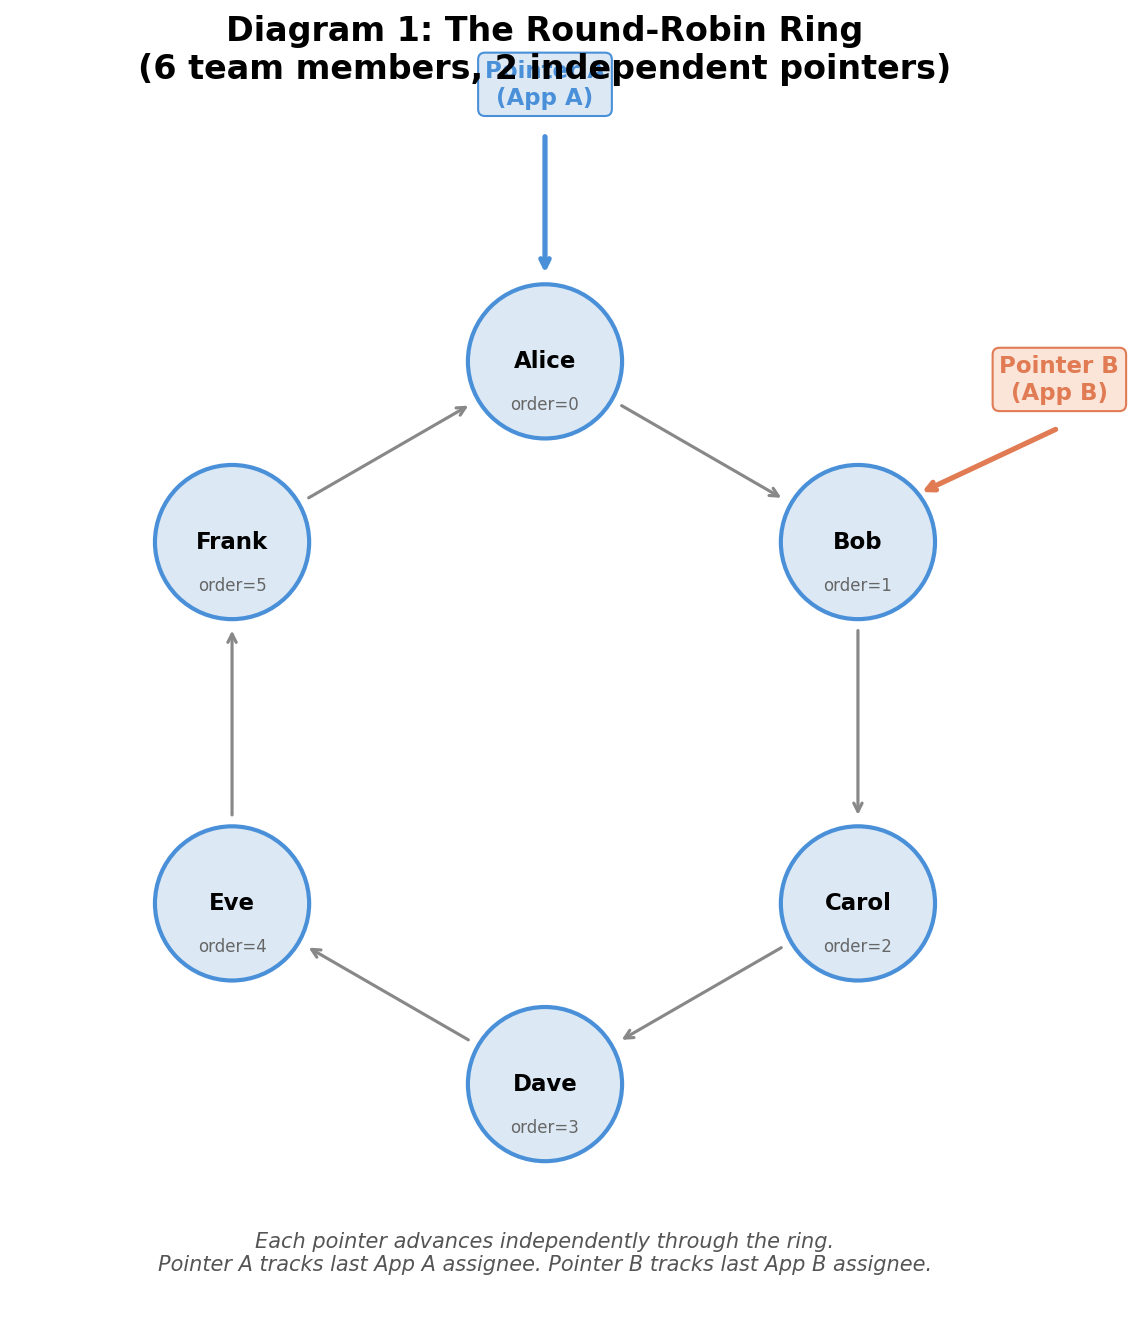
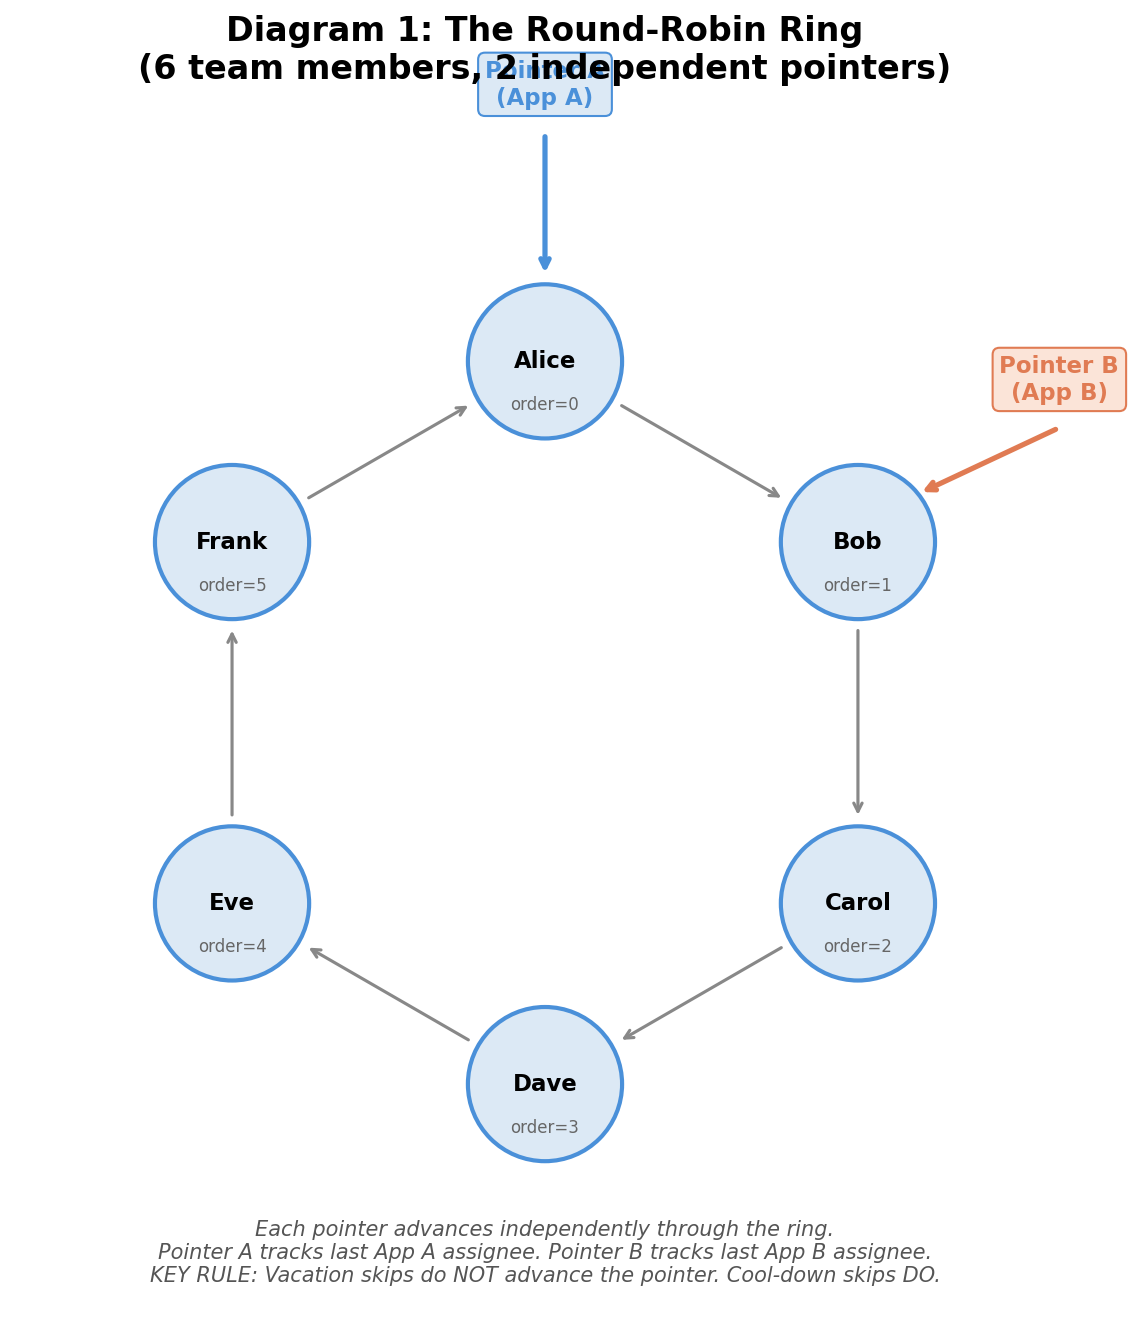
Update diagrams for Option C: pointer holds on vacation
Vacation skips no longer advance the pointer. When a member is on
vacation, their turn is deferred (not lost) — the pointer stays at
their position and they are assigned as soon as they return. Cool-down
skips still advance the pointer as before.

Updated diagrams:
- 01_ring: added key rule about vacation vs cool-down pointer behavior
- 03_flowchart: vacation skip = ptr holds, cool-down skip = ptr advances
- 05_exception: fully reworked as 4-week scenario showing Carol on
  vacation Wks 3-4 with pointer held, then assigned on return in Wk 5

https://claude.ai/code/session_016ZkhzVdVokVnB9MoGG6pc1

Changed region(s): [[0.1235, 0.9179, 0.8333, 0.9791]]

diff --git a/docs/render_diagrams.py b/docs/render_diagrams.py
@@ -89,7 +89,8 @@ def diagram_1_ring():
 
     # Legend
     ax.text(0, -2.2, 'Each pointer advances independently through the ring.\n'
-            'Pointer A tracks last App A assignee. Pointer B tracks last App B assignee.',
+            'Pointer A tracks last App A assignee. Pointer B tracks last App B assignee.\n'
+            'KEY RULE: Vacation skips do NOT advance the pointer. Cool-down skips DO.',
             ha='center', va='center', fontsize=10, style='italic', color='#555')
 
     fig.tight_layout()
@@ -231,10 +232,10 @@ def diagram_3_algorithm_flowchart():
     draw_arrow(6, 16.45, 6, 16.25)
 
     # No - unavailable
-    draw_box(9.5, 15.7, 2.2, 0.6, 'SKIP\n(on vacation)', '#fce4e4', RED, fontsize=8)
-    draw_arrow(7.8, 15.7, 8.4, 15.7, 'No', RED)
-    draw_arrow(9.5, 15.1, 6, 15.1)  # loop back - goes down then left
-    ax.annotate('', xy=(6, 15.2), xytext=(6, 15.1),
+    draw_box(9.5, 15.7, 2.8, 0.7, 'SKIP (vacation)\nPointer does NOT advance', '#fce4e4', RED, fontsize=8)
+    draw_arrow(7.8, 15.7, 8.1, 15.7, 'No', RED)
+    draw_arrow(9.5, 15.05, 6, 15.05)  # loop back - goes down then left
+    ax.annotate('', xy=(6, 15.15), xytext=(6, 15.05),
                 arrowprops=dict(arrowstyle='->', color='#555', lw=1.2))
 
     # Yes - check cooldown
@@ -242,11 +243,12 @@ def diagram_3_algorithm_flowchart():
     draw_arrow(6, 15.15, 6, 14.75, 'Yes')
 
     # Cooldown violation
-    draw_box(9.5, 14.2, 2.2, 0.6, 'SKIP\n(cool-down)', '#fce4e4', RED, fontsize=8)
-    draw_arrow(7.8, 14.2, 8.4, 14.2, 'Yes', RED)
+    draw_box(9.5, 14.2, 2.8, 0.7, 'SKIP (cool-down)\nPointer DOES advance', '#fce4e4', RED, fontsize=8)
+    draw_arrow(7.8, 14.2, 8.1, 14.2, 'Yes', RED)
 
     # Assign App A
-    draw_box(6, 13, 3.5, 0.7, 'ASSIGN TO APP A\nUpdate pointer_a', LIGHT_BLUE, BLUE, bold=True)
+    draw_box(6, 13, 4.5, 0.8, 'ASSIGN TO APP A\nAdvance pointer_a (unless vacation\nsubstitute — then pointer holds)',
+             LIGHT_BLUE, BLUE, bold=True)
     draw_arrow(6, 13.65, 6, 13.35, 'No')
 
     # Separator
@@ -262,15 +264,15 @@ def diagram_3_algorithm_flowchart():
     draw_diamond(6, 10.4, 3.6, 1.1, 'Member\navailable?')
     draw_arrow(6, 11.15, 6, 10.95)
 
-    draw_box(9.5, 10.4, 2.2, 0.6, 'SKIP\n(on vacation)', '#fce4e4', RED, fontsize=8)
-    draw_arrow(7.8, 10.4, 8.4, 10.4, 'No', RED)
+    draw_box(9.5, 10.4, 2.8, 0.7, 'SKIP (vacation)\nPointer does NOT advance', '#fce4e4', RED, fontsize=8)
+    draw_arrow(7.8, 10.4, 8.1, 10.4, 'No', RED)
 
     # Check cooldown B
     draw_diamond(6, 9.0, 3.6, 1.1, 'Did App A\nlast week?')
     draw_arrow(6, 9.85, 6, 9.55, 'Yes')
 
-    draw_box(9.5, 9.0, 2.2, 0.6, 'SKIP\n(cool-down)', '#fce4e4', RED, fontsize=8)
-    draw_arrow(7.8, 9.0, 8.4, 9.0, 'Yes', RED)
+    draw_box(9.5, 9.0, 2.8, 0.7, 'SKIP (cool-down)\nPointer DOES advance', '#fce4e4', RED, fontsize=8)
+    draw_arrow(7.8, 9.0, 8.1, 9.0, 'Yes', RED)
 
     # Check same person
     draw_diamond(6, 7.6, 3.6, 1.1, 'Same as\nApp A\nthis week?')
@@ -280,7 +282,8 @@ def diagram_3_algorithm_flowchart():
     draw_arrow(7.8, 7.6, 8.4, 7.6, 'Yes', RED)
 
     # Assign App B
-    draw_box(6, 6.4, 3.5, 0.7, 'ASSIGN TO APP B\nUpdate pointer_b', LIGHT_ORANGE, ORANGE, bold=True)
+    draw_box(6, 6.4, 4.5, 0.8, 'ASSIGN TO APP B\nAdvance pointer_b (unless vacation\nsubstitute — then pointer holds)',
+             LIGHT_ORANGE, ORANGE, bold=True)
     draw_arrow(6, 7.05, 6, 6.75, 'No')
 
     # Done
@@ -382,75 +385,154 @@ def diagram_4_cooldown_visual():
 
 
 def diagram_5_exception_handling():
-    """What happens when someone is on vacation."""
-    fig, axes = plt.subplots(1, 2, figsize=(14, 6))
+    """Option C: Pointer holds position on vacation. 4-week scenario."""
+    fig, axes = plt.subplots(1, 4, figsize=(20, 8))
     fig.patch.set_facecolor(WHITE)
-    fig.suptitle('Diagram 5: Exception Handling (Vacation)\n'
-                 'Week 3 — Carol is unavailable',
-                 fontsize=14, fontweight='bold', y=1.02)
+    fig.suptitle('Diagram 5: Vacation Handling — Pointer Holds Position (Option C)\n'
+                 'Carol is on vacation Weeks 3-4. Pointer stays at Carol. She is assigned when she returns.',
+                 fontsize=14, fontweight='bold', y=1.0)
 
-    # Left: Normal week 3
-    ax = axes[0]
-    ax.set_xlim(-0.5, 3)
-    ax.set_ylim(-0.5, 7)
-    ax.axis('off')
-    ax.set_title('Normal Week 3\n(no exceptions)', fontsize=12, fontweight='bold', color=GREEN)
+    PURPLE = '#8e6fad'
+    LIGHT_PURPLE = '#ede4f5'
 
-    normal = [(0, 'Alice', WHITE, '#ccc', ''),
-              (1, 'Bob', WHITE, '#ccc', ''),
-              (2, 'Carol', WHITE, '#ccc', ''),
-              (3, 'Dave', '#fce4e4', RED, 'skip: did B wk2'),
-              (4, 'Eve', LIGHT_BLUE, BLUE, 'APP A'),
-              (5, 'Frank', LIGHT_ORANGE, ORANGE, 'APP B')]
+    # Week 2 (normal, sets context):
+    #   Ptr A was at 0 (Alice) → advances to 2 (Carol). Bob(1) cool-down skipped.
+    #   Ptr B was at 1 (Bob)   → advances to 3 (Dave). Alice(0) cool-down skipped.
+    # Week 3 (Carol on vacation):
+    #   Ptr A at 2 (Carol) → try Carol → VACATION → ptr HOLDS at 2, find substitute:
+    #     try Dave(3) → cool-down (did B wk2) → try Eve(4) ✓ (substitute assigned)
+    #   Ptr B at 3 (Dave) → advances to 5 → try Eve(4) → cool-down? no, but same as A → skip
+    #     try Frank(5) ✓
+    # Week 4 (Carol still on vacation):
+    #   Ptr A still at 2 (Carol) → try Carol → VACATION → ptr HOLDS at 2, find substitute:
+    #     try Dave(3) → was he cool-down? Frank did B wk3, Eve did A wk3.
+    #     Dave is fine → Dave ✓ (substitute)
+    #   Ptr B at 5 (Frank) → try Alice(0) ✓
+    # Week 5 (Carol returns):
+    #   Ptr A still at 2 (Carol) → try Carol → AVAILABLE → Carol ✓! Ptr advances to 2.
+    #   Ptr B at 0 (Alice) → try Bob(1) → cool-down? No. Same as A? No → Bob ✓
 
-    # Reverse so index 0 is at top
-    for rot_order, name, color, edge, note in normal:
-        y = 5.5 - rot_order
-        rect = mpatches.FancyBboxPatch((0.2, y - 0.3), 1.2, 0.6,
-                                        boxstyle='round,pad=0.08',
-                                        facecolor=color, edgecolor=edge, linewidth=1.5)
-        ax.add_patch(rect)
-        ax.text(0.8, y, name, ha='center', va='center', fontsize=10, fontweight='bold')
-        if note:
-            ncolor = BLUE if 'APP A' in note else (ORANGE if 'APP B' in note else RED)
-            ax.text(1.55, y, note, ha='left', va='center', fontsize=9, color=ncolor, fontweight='bold')
+    weeks_data = [
+        {
+            'title': 'Week 2 (normal)',
+            'subtitle': 'Sets baseline pointers',
+            'members': [
+                ('Alice', '#fce4e4', RED, 'skip: did A wk1'),
+                ('Bob',   '#fce4e4', RED, 'skip: did B wk1'),
+                ('Carol', LIGHT_BLUE, BLUE, 'APP A'),
+                ('Dave',  LIGHT_ORANGE, ORANGE, 'APP B'),
+                ('Eve',   WHITE, '#ccc', ''),
+                ('Frank', WHITE, '#ccc', ''),
+            ],
+            'ptr_a': 'Ptr A → 2 (Carol)',
+            'ptr_b': 'Ptr B → 3 (Dave)',
+            'note': '',
+        },
+        {
+            'title': 'Week 3 (Carol on vacation)',
+            'subtitle': 'Pointer A HOLDS at Carol',
+            'members': [
+                ('Alice', WHITE, '#ccc', ''),
+                ('Bob',   WHITE, '#ccc', ''),
+                ('Carol', GRAY, '#999', 'VACATION'),
+                ('Dave',  '#fce4e4', RED, 'skip: did B wk2'),
+                ('Eve',   LIGHT_BLUE, BLUE, 'APP A (sub)'),
+                ('Frank', LIGHT_ORANGE, ORANGE, 'APP B'),
+            ],
+            'ptr_a': 'Ptr A → 2 (HELD)',
+            'ptr_b': 'Ptr B → 5 (Frank)',
+            'note': 'Ptr A stays at 2!\nEve is a substitute,\nnot the real advance.',
+        },
+        {
+            'title': 'Week 4 (Carol still out)',
+            'subtitle': 'Pointer A still held at Carol',
+            'members': [
+                ('Alice', LIGHT_ORANGE, ORANGE, 'APP B'),
+                ('Bob',   WHITE, '#ccc', ''),
+                ('Carol', GRAY, '#999', 'VACATION'),
+                ('Dave',  LIGHT_BLUE, BLUE, 'APP A (sub)'),
+                ('Eve',   '#fce4e4', RED, 'skip: did A wk3'),
+                ('Frank', '#fce4e4', RED, 'skip: did B wk3'),
+            ],
+            'ptr_a': 'Ptr A → 2 (HELD)',
+            'ptr_b': 'Ptr B → 0 (Alice)',
+            'note': 'Ptr A still at 2.\nDave substitutes again.\nCarol owes her turn.',
+        },
+        {
+            'title': 'Week 5 (Carol returns!)',
+            'subtitle': 'Carol is first in line',
+            'members': [
+                ('Alice', '#fce4e4', RED, 'skip: did B wk4'),
+                ('Bob',   LIGHT_ORANGE, ORANGE, 'APP B'),
+                ('Carol', LIGHT_PURPLE, PURPLE, 'APP A ★'),
+                ('Dave',  '#fce4e4', RED, 'skip: did A wk4'),
+                ('Eve',   WHITE, '#ccc', ''),
+                ('Frank', WHITE, '#ccc', ''),
+            ],
+            'ptr_a': 'Ptr A → 2 (Carol) ★',
+            'ptr_b': 'Ptr B → 1 (Bob)',
+            'note': 'Carol gets assigned!\nHer turn was deferred,\nnot lost. Ptr advances.',
+        },
+    ]
 
-    # Right: Exception week 3 (Carol on vacation)
-    ax = axes[1]
-    ax.set_xlim(-0.5, 3.5)
-    ax.set_ylim(-0.5, 7)
-    ax.axis('off')
-    ax.set_title('Week 3 with Carol on Vacation\n(algorithm adapts)', fontsize=12, fontweight='bold', color=ORANGE)
+    for ax, wd in zip(axes, weeks_data):
+        ax.set_xlim(-0.5, 3.5)
+        ax.set_ylim(-2.5, 7.5)
+        ax.axis('off')
+        ax.set_title(f"{wd['title']}\n{wd['subtitle']}", fontsize=11, fontweight='bold')
 
-    exception = [(0, 'Alice', WHITE, '#ccc', ''),
-                 (1, 'Bob', WHITE, '#ccc', ''),
-                 (2, 'Carol', GRAY, '#999', 'VACATION'),
-                 (3, 'Dave', '#fce4e4', RED, 'skip: did B wk2'),
-                 (4, 'Eve', LIGHT_BLUE, BLUE, 'APP A'),
-                 (5, 'Frank', LIGHT_ORANGE, ORANGE, 'APP B')]
+        for i, (name, color, edge, note) in enumerate(wd['members']):
+            y = 5.5 - i
+            rect = mpatches.FancyBboxPatch((0.1, y - 0.3), 1.1, 0.6,
+                                            boxstyle='round,pad=0.08',
+                                            facecolor=color, edgecolor=edge, linewidth=1.5)
+            ax.add_patch(rect)
+            style = 'italic' if note == 'VACATION' else 'normal'
+            ax.text(0.65, y, name, ha='center', va='center', fontsize=10,
+                    fontweight='bold', style=style)
+            if note:
+                if 'VACATION' in note:
+                    ncolor = '#999'
+                elif 'APP A' in note:
+                    ncolor = BLUE if '★' not in note else PURPLE
+                elif 'APP B' in note:
+                    ncolor = ORANGE
+                else:
+                    ncolor = RED
+                ax.text(1.3, y, note, ha='left', va='center', fontsize=8,
+                        color=ncolor, fontweight='bold')
 
-    for rot_order, name, color, edge, note in exception:
-        y = 5.5 - rot_order
-        rect = mpatches.FancyBboxPatch((0.2, y - 0.3), 1.2, 0.6,
-                                        boxstyle='round,pad=0.08',
-                                        facecolor=color, edgecolor=edge, linewidth=1.5)
-        ax.add_patch(rect)
-        style = 'italic' if note == 'VACATION' else 'normal'
-        ax.text(0.8, y, name, ha='center', va='center', fontsize=10, fontweight='bold',
-                style=style)
-        if note:
-            ncolor = '#999' if 'VACATION' in note else (
-                BLUE if 'APP A' in note else (ORANGE if 'APP B' in note else RED))
-            ax.text(1.55, y, note, ha='left', va='center', fontsize=9, color=ncolor, fontweight='bold')
+        # Pointer status
+        ptr_a_color = PURPLE if 'HELD' in wd['ptr_a'] or '★' in wd['ptr_a'] else BLUE
+        ax.text(0.1, -0.3, wd['ptr_a'], fontsize=8.5, color=ptr_a_color, fontweight='bold',
+                bbox=dict(boxstyle='round,pad=0.2', facecolor=LIGHT_BLUE, edgecolor=ptr_a_color, lw=1.5))
+        ax.text(0.1, -0.85, wd['ptr_b'], fontsize=8.5, color=ORANGE, fontweight='bold',
+                bbox=dict(boxstyle='round,pad=0.2', facecolor=LIGHT_ORANGE, edgecolor=ORANGE, lw=1.5))
 
-    # Annotation showing the algorithm thought process
-    ax.text(0.2, -0.3,
-            'App A: ptr at 2 → try Carol → VACATION → try Dave → cool-down → try Eve ✓\n'
-            'App B: ptr at 3 → try Eve → same as App A → try Frank ✓',
-            fontsize=9, color='#555', va='top', style='italic',
-            bbox=dict(boxstyle='round,pad=0.4', facecolor='#f9f9f9', edgecolor='#ddd'))
+        if wd['note']:
+            ax.text(0.1, -1.6, wd['note'], fontsize=8.5, color='#555', va='top',
+                    style='italic',
+                    bbox=dict(boxstyle='round,pad=0.3', facecolor='#f9f9f9', edgecolor='#ddd'))
 
-    fig.tight_layout()
+    # Bottom legend
+    legend_items = [
+        (LIGHT_BLUE, BLUE, 'Assigned App A'),
+        (LIGHT_ORANGE, ORANGE, 'Assigned App B'),
+        (LIGHT_PURPLE, PURPLE, 'Deferred turn fulfilled ★'),
+        ('#fce4e4', RED, 'Skipped (cool-down)'),
+        (GRAY, '#999', 'On vacation (ptr holds)'),
+    ]
+    fig.subplots_adjust(bottom=0.12)
+    for i, (fc, ec, label) in enumerate(legend_items):
+        x = 0.06 + i * 0.19
+        rect = mpatches.FancyBboxPatch((x, 0.02), 0.025, 0.03,
+                                        boxstyle='round,pad=0.004',
+                                        facecolor=fc, edgecolor=ec, linewidth=1.5,
+                                        transform=fig.transFigure)
+        fig.patches.append(rect)
+        fig.text(x + 0.032, 0.035, label, fontsize=8.5, va='center')
+
+    fig.tight_layout(rect=[0, 0.08, 1, 0.95])
     fig.savefig(f'{OUT_DIR}/05_exception_handling.png', dpi=150, bbox_inches='tight', facecolor=WHITE)
     plt.close(fig)
     print(f'Saved 05_exception_handling.png')
